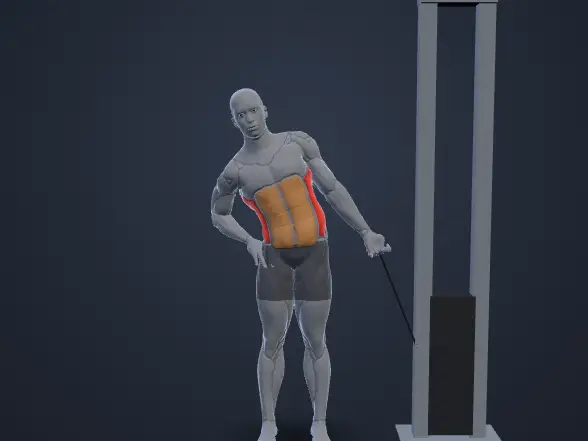
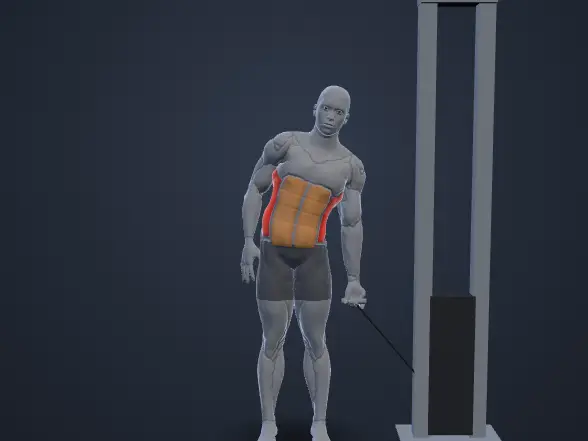
Map 7 more side bends to 3D (atelier lot 60); side bends now lean toward the load

Changed region(s): [[0.3367, 0.1769, 0.6735, 0.7075]]

diff --git a/frontend/public/mannequin/ecarts.js b/frontend/public/mannequin/ecarts.js
@@ -19,7 +19,6 @@ export const ECARTS = {
     "fente-croisee-halteres": {"normal":[null,{"bras.G":{"abd":3,"flex":0},"bras.D":{"abd":3,"flex":0}},{"bras.G":{"abd":3,"flex":0},"bras.D":{"abd":3,"flex":0}},null,null,null,null,null,null,null,null,null,{"bras.G":{"abd":3,"flex":0},"bras.D":{"abd":3,"flex":0}},null,{"bras.G":{"abd":3,"flex":0},"bras.D":{"abd":3,"flex":0}},{"bras.G":{"abd":3,"flex":0},"bras.D":{"abd":3,"flex":0}},null,null,null,null,null,null,null,null,null,{"bras.G":{"abd":3,"flex":0},"bras.D":{"abd":3,"flex":0}}],"erreur":[{"bras.G":{"abd":3,"flex":0},"bras.D":{"abd":3,"flex":0}},{"bras.G":{"abd":3,"flex":0},"bras.D":{"abd":3,"flex":0}},{"bras.G":{"abd":3,"flex":0},"bras.D":{"abd":3,"flex":0}},null,null,{"bras.G":{"abd":0,"flex":-5},"bras.D":{"abd":0,"flex":-5}},{"bras.G":{"abd":6,"flex":0},"bras.D":{"abd":6,"flex":0}},null,{"bras.G":{"abd":6,"flex":0},"bras.D":{"abd":6,"flex":0}},{"bras.G":{"abd":3,"flex":0},"bras.D":{"abd":3,"flex":0}},null,null,{"bras.G":{"abd":6,"flex":0},"bras.D":{"abd":6,"flex":0}},{"bras.G":{"abd":3,"flex":5},"bras.D":{"abd":3,"flex":5}}]},
     "fente-laterale-halteres": {"normal":[{"bras.G":{"abd":3,"flex":-5},"bras.D":{"abd":3,"flex":-5}},{"bras.G":{"abd":9,"flex":-5},"bras.D":{"abd":9,"flex":-5}},{"bras.G":{"abd":3,"flex":0},"bras.D":{"abd":3,"flex":0}},{"bras.G":{"abd":9,"flex":5},"bras.D":{"abd":9,"flex":5}},{"bras.G":{"abd":15,"flex":5},"bras.D":{"abd":15,"flex":5}},{"bras.G":{"abd":3,"flex":0},"bras.D":{"abd":3,"flex":0}}],"erreur":[{"bras.G":{"abd":9,"flex":-5},"bras.D":{"abd":9,"flex":-5}},{"bras.G":{"abd":9,"flex":-5},"bras.D":{"abd":9,"flex":-5}},{"bras.G":{"abd":0,"flex":-5},"bras.D":{"abd":0,"flex":-5}},{"bras.G":{"abd":3,"flex":-5},"bras.D":{"abd":3,"flex":-5}},{"bras.G":{"abd":15,"flex":0},"bras.D":{"abd":15,"flex":0}},{"bras.G":{"abd":3,"flex":0},"bras.D":{"abd":3,"flex":0}}]},
     "fentes-halteres": {"normal":[null,{"bras.G":{"abd":6,"flex":0},"bras.D":{"abd":6,"flex":0}},{"bras.G":{"abd":3,"flex":0},"bras.D":{"abd":3,"flex":0}},null,null,null,null,null,null,null,null,null,{"bras.G":{"abd":6,"flex":0},"bras.D":{"abd":6,"flex":0}},null,{"bras.G":{"abd":3,"flex":0},"bras.D":{"abd":3,"flex":0}},{"bras.G":{"abd":3,"flex":0},"bras.D":{"abd":3,"flex":0}},null,null,null,null,null,null,null,null,null,{"bras.G":{"abd":6,"flex":0},"bras.D":{"abd":6,"flex":0}}],"erreur":[{"bras.G":{"abd":3,"flex":0},"bras.D":{"abd":3,"flex":0}},{"bras.G":{"abd":3,"flex":0},"bras.D":{"abd":3,"flex":0}},{"bras.G":{"abd":3,"flex":0},"bras.D":{"abd":3,"flex":0}},null,{"bras.G":{"abd":3,"flex":0},"bras.D":{"abd":3,"flex":0}},{"bras.G":{"abd":3,"flex":-5},"bras.D":{"abd":3,"flex":-5}},{"bras.G":{"abd":6,"flex":0},"bras.D":{"abd":6,"flex":0}},null,{"bras.G":{"abd":6,"flex":0},"bras.D":{"abd":6,"flex":0}},{"bras.G":{"abd":3,"flex":0},"bras.D":{"abd":3,"flex":0}},null,null,{"bras.G":{"abd":6,"flex":0},"bras.D":{"abd":6,"flex":0}},{"bras.G":{"abd":3,"flex":5},"bras.D":{"abd":3,"flex":5}}]},
-    "flexion-laterale-haltere": {"normal":[null,null,null,{"bras.G":{"abd":3,"flex":0}},null],"erreur":[null,null,null,{"bras.G":{"abd":3,"flex":0}},null]},
     "goblet-squat": {"erreur":[{"bras.G":[0,-3,0],"bras.D":[0,-3,0]},{"bras.G":[0,-3,0],"bras.D":[0,-3,0]},{"bras.G":[0,-3,0],"bras.D":[0,-3,0]},null]},
     "kickback-halteres-debout": {"normal":[{"bras.G":{"abd":3,"flex":0},"bras.D":{"abd":3,"flex":0}},null,{"bras.G":{"abd":15,"flex":0},"bras.D":{"abd":15,"flex":0}},{"bras.G":{"abd":3,"flex":0},"bras.D":{"abd":3,"flex":0}}],"erreur":[{"bras.G":{"abd":3,"flex":0},"bras.D":{"abd":3,"flex":0}},null,null,{"bras.G":{"abd":3,"flex":0},"bras.D":{"abd":3,"flex":0}}]},
     "kickback-triceps": {"normal":[{"bras.G":{"abd":6,"flex":-5},"bras.D":{"abd":6,"flex":-5}},{"bras.G":{"abd":6,"flex":0},"bras.D":{"abd":6,"flex":0}},{"bras.G":{"abd":9,"flex":0},"bras.D":{"abd":9,"flex":0}},{"bras.G":{"abd":6,"flex":0},"bras.D":{"abd":6,"flex":0}}],"erreur":[{"bras.G":{"abd":9,"flex":-5},"bras.D":{"abd":9,"flex":-5}},{"bras.G":{"abd":3,"flex":0},"bras.D":{"abd":3,"flex":0}},{"bras.G":{"abd":12,"flex":10},"bras.D":{"abd":12,"flex":10}},null]},
@@ -58,7 +57,7 @@ export const ECARTS = {
     "fente-croisee-halteres": {"normal":[null,null,{"bras.G":{"abd":3,"flex":0},"bras.D":{"abd":3,"flex":0}},null,null,null,null,null,null,null,null,{"bras.G":{"abd":6,"flex":0},"bras.D":{"abd":6,"flex":0}},null,null,{"bras.G":{"abd":3,"flex":-5},"bras.D":{"abd":3,"flex":-5}},{"bras.G":{"abd":3,"flex":0},"bras.D":{"abd":3,"flex":0}},null,null,null,null,null,null,null,null,{"bras.G":{"abd":9,"flex":0},"bras.D":{"abd":9,"flex":0}},null],"erreur":[null,{"bras.G":{"abd":3,"flex":5},"bras.D":{"abd":3,"flex":5}},{"bras.G":{"abd":3,"flex":0},"bras.D":{"abd":3,"flex":0}},null,null,{"bras.G":{"abd":6,"flex":0},"bras.D":{"abd":6,"flex":0}},{"bras.G":{"abd":3,"flex":0},"bras.D":{"abd":3,"flex":0}},null,{"bras.G":{"abd":3,"flex":-5},"bras.D":{"abd":3,"flex":-5}},null,null,null,{"bras.G":{"abd":6,"flex":0},"bras.D":{"abd":6,"flex":0}},null]},
     "fente-laterale-halteres": {"normal":[null,{"bras.G":{"abd":9,"flex":-5},"bras.D":{"abd":9,"flex":-5}},{"bras.G":{"abd":3,"flex":0},"bras.D":{"abd":3,"flex":0}},{"bras.G":{"abd":0,"flex":-10},"bras.D":{"abd":0,"flex":-10}},{"bras.G":{"abd":9,"flex":0},"bras.D":{"abd":9,"flex":0}},null],"erreur":[{"bras.G":{"abd":3,"flex":-10},"bras.D":{"abd":3,"flex":-10}},{"bras.G":{"abd":6,"flex":-10},"bras.D":{"abd":6,"flex":-10}},{"bras.G":{"abd":3,"flex":-10},"bras.D":{"abd":3,"flex":-10}},{"bras.G":{"abd":12,"flex":0},"bras.D":{"abd":12,"flex":0}},{"bras.G":{"abd":9,"flex":-5},"bras.D":{"abd":9,"flex":-5}},{"bras.G":{"abd":3,"flex":0},"bras.D":{"abd":3,"flex":0}}]},
     "fentes-halteres": {"normal":[null,{"bras.G":{"abd":3,"flex":0},"bras.D":{"abd":3,"flex":0}},{"bras.G":{"abd":3,"flex":-5},"bras.D":{"abd":3,"flex":-5}},null,null,null,null,null,null,null,null,{"bras.G":{"abd":6,"flex":0},"bras.D":{"abd":6,"flex":0}},null,null,{"bras.G":{"abd":3,"flex":5},"bras.D":{"abd":3,"flex":5}},{"bras.G":{"abd":6,"flex":0},"bras.D":{"abd":6,"flex":0}},{"bras.G":{"abd":3,"flex":0},"bras.D":{"abd":3,"flex":0}},null,null,null,null,null,null,null,{"bras.G":{"abd":9,"flex":0},"bras.D":{"abd":9,"flex":0}},null],"erreur":[null,{"bras.G":{"abd":3,"flex":5},"bras.D":{"abd":3,"flex":5}},{"bras.G":{"abd":3,"flex":0},"bras.D":{"abd":3,"flex":0}},null,null,{"bras.G":{"abd":6,"flex":0},"bras.D":{"abd":6,"flex":0}},{"bras.G":{"abd":3,"flex":0},"bras.D":{"abd":3,"flex":0}},null,{"bras.G":{"abd":3,"flex":-5},"bras.D":{"abd":3,"flex":-5}},null,null,null,{"bras.G":{"abd":6,"flex":0},"bras.D":{"abd":6,"flex":0}},null]},
-    "flexion-laterale-haltere": {"normal":[null,null,null,{"bras.G":{"abd":3,"flex":0}},null],"erreur":[null,null,null,{"bras.G":{"abd":3,"flex":0}},null]},
+    "flexion-laterale-haltere": {"erreur":[{"bras.G":{"abd":0,"flex":10}},null,null,null,null]},
     "front-squat": {"normal":[{"bras.G":{"abd":0,"flex":-10},"bras.D":{"abd":0,"flex":-10}},{"bras.G":{"abd":0,"flex":-5},"bras.D":{"abd":0,"flex":-5}},null,null,null,null,null,null,null,null,null,null,null,null,null,{"bras.G":{"abd":0,"flex":-5},"bras.D":{"abd":0,"flex":-5}}]},
     "good-morning": {"normal":[null,null,null,null,{"bras.G":{"abd":0,"flex":-5},"bras.D":{"abd":0,"flex":-5}},null,null,null,{"bras.G":{"abd":0,"flex":5},"bras.D":{"abd":0,"flex":5}},null,null,null,null,null],"erreur":[null,null,{"bras.G":{"abd":0,"flex":-5},"bras.D":{"abd":0,"flex":-5}},{"bras.G":{"abd":0,"flex":-5},"bras.D":{"abd":0,"flex":-5}}]},
     "hip-thrust": {"normal":[{"bras.G":[0,3,-3],"bras.D":[0,3,-3]},{"bras.G":[0,0,3],"bras.D":[0,0,3]},{"bras.G":[0,-3,3],"bras.D":[0,-3,3]},{"bras.G":[0,0,3],"bras.D":[0,0,3]}],"erreur":[{"bras.G":[3,3,-3],"bras.D":[-3,3,-3]},{"bras.G":[0,3,0],"bras.D":[0,3,0]},{"bras.G":[0,3,0],"bras.D":[0,3,0]},{"bras.G":[0,3,-3],"bras.D":[0,3,-3]}]},

diff --git a/frontend/public/mannequin/exercices.js b/frontend/public/mannequin/exercices.js
@@ -3000,8 +3000,8 @@ const BRAS_BAS = bras2({ fk: { flex: 4, abd: 8 }, coude: 8 });
 
 /* ---------- LOT 59 pour l'appli : flexion latérale debout (haltère, kettlebell, poulie, mains derrière la tête) ---------- */
 { // La colonne s'incline sur le côté (vers la main gauche chargée) ; le bassin reste droit, la main gauche glisse le long de la cuisse
-  const LAT = (a, cou = 0) => ({ lomb: { flex: 0, lat: -a * 0.55 }, thorax: { flex: 0, lat: -a * 0.45 }, cou: { flex: cou, lat: a * 0.2 } });   // lat négatif : vers la gauche
-  const G = bras2({ fk: { flex: 4, abd: 14 }, coude: 6, prono: -85, ...PRISE }).G;   // la charge reste à côté de la cuisse
+  const LAT = (a, cou = 0) => ({ lomb: { flex: 0, lat: a * 0.55 }, thorax: { flex: 0, lat: a * 0.45 }, cou: { flex: cou, lat: -a * 0.2 } });   // lat positif : vers la gauche (côté chargé)
+  const G = bras2({ fk: { flex: 4, abd: 22 }, coude: 6, prono: -85, ...PRISE }).G;   // la charge reste à côté de la cuisse
   const NUQUE = bras2({ fk: { flex: -55, abd: 85, rot: 85 }, coude: 160, doigts: 30 }), HANCHES = bras2({ ik: [22, 100, 0], pole: [1, -0.3, -1] });
   const ex = (id, nom, acc, brasG, brasD, extra = {}) => { const P = (t, a) => ({ t, racine: { p: [0, 99, 0], r: [0, 0, 0] }, colonne: LAT(a), jambes: DEBOUT,
       bras: { G: copie(brasG), D: copie(brasD) } });
@@ -3009,13 +3009,20 @@ const BRAS_BAS = bras2({ fk: { flex: 4, abd: 8 }, coude: 8 });
       camera: { cible: [0, 110, 0], dist: 440, el: 6 }, ombre: [0, 0, 80, 70], accessoires: acc,
       muscles: { p: ["obliques"], s: ["lombaires", "abdominaux"] },
       tempo: [[0, "Descendre sur le côté · 2 s, sans pencher en avant"], [0.4, "Étirement du côté opposé"], [0.5, "Remonter et dépasser un peu le centre · 1 s"]],
-      cles: [P(0, 0), P(0.4, 24), P(0.5, 24), P(0.75, -8), P(0.95, 0)],
+      cles: [P(0, 0), P(0.4, 20), P(0.5, 20), P(0.75, -8), P(0.95, 0)],
       erreur: { texte: "le buste part en avant ou en arrière au lieu de rester de profil : les obliques ne travaillent plus seuls.", zone: ["lombaires"],
-        cles: [P(0, 0), { ...P(0.4, 24), colonne: { ...LAT(24), lomb: { flex: 22, lat: -13 } } }, { ...P(0.5, 24), colonne: { ...LAT(24), lomb: { flex: 22, lat: -13 } } }, P(0.75, -8), P(0.95, 0)] }, ...extra }); };
+        cles: [P(0, 0), { ...P(0.4, 20), colonne: { ...LAT(20), lomb: { flex: 14, lat: 11 } } }, { ...P(0.5, 20), colonne: { ...LAT(20), lomb: { flex: 14, lat: 11 } } }, P(0.75, -8), P(0.95, 0)] }, ...extra }); };
   ex("flexion-laterale-haltere", "Flexion latérale à l'haltère", [{ type: "haltere", main: "G" }], G, HANCHES.D);
+  EXERCICES["flexion-laterale-haltere"].erreur.cles.forEach(k => { k.bras.G.fk.abd += 8; });   // buste en avant : l'haltère s'écarte plus de la cuisse
   ex("flexion-laterale-kettlebell", "Flexion latérale au kettlebell", [copie(EXERCICES["rowing-kettlebell"].accessoires[1])], G, HANCHES.D);
   ex("flexion-laterale-poulie", "Flexion latérale à la poulie basse", [machine(PILE(78, 0)), { type: "cable", de: [72, 20, 0], main: "G", poignee: 12 }], G, HANCHES.D);
   ex("flexion-laterale-mains-nuque", "Flexion latérale debout, mains derrière la tête", [], NUQUE.G, NUQUE.D);
+  // Lot 60 : sans charge, bras droit tendu au-dessus de la tête (on s'incline du côté opposé), deux bras joints, ou bras le long du corps
+  const HAUT = bras2({ fk: { flex: 170, abd: 14 }, coude: 8, doigts: 10 }), JOINTS = bras2({ fk: { flex: 172, abd: 3 }, coude: 12, doigts: 10 });
+  const LIBRES = bras2({ fk: { flex: 4, abd: 9 }, coude: 8 });
+  ex("flexion-laterale-bras-leve", "Flexion latérale debout, un bras au-dessus de la tête", [], HANCHES.G, HAUT.D);
+  ex("flexion-laterale-bras-joints", "Flexion latérale debout, mains jointes au-dessus de la tête", [], JOINTS.G, JOINTS.D);
+  ex("flexion-laterale-bras-le-long", "Flexion latérale debout, bras le long du corps", [], LIBRES.G, LIBRES.D);
 }
 
 /* Orientation des mains : direction où la paume doit regarder (main gauche ; la droite est symétrique), tenue à chaque image

diff --git a/frontend/src/lib/mannequin3d.js b/frontend/src/lib/mannequin3d.js
@@ -105,7 +105,8 @@ const BY_ANIM = {
   'extension-nuque-poulie': ['0194', '1722', '1724', '3040', '11436'], 'extension-nuque-poulie-un-bras': ['11279', '1727'],
   'curl-poulie-haute': ['1636'], 'curl-poulie-haute-assis': ['1643'],
   'flexion-laterale-haltere': ['0407', '4335', '6054'], 'flexion-laterale-kettlebell': ['4396'], 'flexion-laterale-poulie': ['0222', '5657', '11278'],
-  'flexion-laterale-mains-nuque': ['3256'],
+  'flexion-laterale-mains-nuque': ['3256', '4322'],
+  'flexion-laterale-bras-leve': ['3253', '4810', '2117', '2119', '3997'], 'flexion-laterale-bras-joints': ['3254'],
 }
 // The same exercise again in the catalogue (its female version, or a "v. 2" of the same name): same animation.
 const SAME_AS = {
@@ -142,17 +143,17 @@ const SAME_AS = {
   '2965': '2964', '2973': '2972', '3029': '0082', '3033': '0126', '3038': '0148', '3041': '1630', '3045': '0157',
   '3046': '1261', '3047': '1722', '3049': '0169', '3050': '0171', '3054': '0178', '3065': '1643', '3066': '0219',
   '3069': '0239', '3070': '1728', '3071': '0276', '3074': '2401', '3083': '0391', '3101': '0587', '3115': '0814',
-  '3262': '1163', '3340': '0432', '3341': '0336', '3421': '0394', '3427': '3335', '3428': '0310', '3429': '2292',
-  '3431': '0437', '3447': '3448', '3549': '7384', '3592': '0031', '3594': '0116', '3595': '0123', '3597': '1205',
-  '3598': '0218', '3599': '0251', '3604': '0474', '3611': '0597', '3612': '0598', '3613': '1037', '3615': '0673',
-  '3618': '0752', '3620': '0765', '3753': '0595', '3754': '1047', '3760': '1452', '3764': '0315', '3800': '1243',
-  '3817': '3556', '3894': '0432', '3895': '0674', '3897': '0498', '3902': '3322', '3973': '0409', '4019': '0872',
-  '4037': '1311', '4267': '1482', '4284': '0457', '4301': '0669', '4508': '1494', '4525': '3574', '4643': '0459',
-  '4645': '0630', '4743': '0315', '4774': '7385', '4778': '0872', '4808': '1163', '4811': '0715', '4975': '1163',
-  '5119': '0300', '5177': '3769', '5213': '0630', '5251': '3469', '5252': '4580', '5330': '0375', '5722': '1063',
-  '5734': '0459', '5964': '0180', '6036': '0238', '6484': '0375', '6556': '4397', '7002': '0748', '7003': '0757',
-  '7069': '0122', '7071': '0579', '7113': '0433', '7157': '1246', '7253': '1053', '7839': '1243', '7892': '2188',
-  '8372': '1059', '9609': '3322', '9739': '0201',
+  '3255': '3997', '3262': '1163', '3340': '0432', '3341': '0336', '3421': '0394', '3427': '3335', '3428': '0310',
+  '3429': '2292', '3431': '0437', '3447': '3448', '3549': '7384', '3592': '0031', '3594': '0116', '3595': '0123',
+  '3597': '1205', '3598': '0218', '3599': '0251', '3604': '0474', '3611': '0597', '3612': '0598', '3613': '1037',
+  '3615': '0673', '3618': '0752', '3620': '0765', '3753': '0595', '3754': '1047', '3760': '1452', '3764': '0315',
+  '3800': '1243', '3817': '3556', '3894': '0432', '3895': '0674', '3897': '0498', '3902': '3322', '3973': '0409',
+  '4019': '0872', '4037': '1311', '4267': '1482', '4284': '0457', '4301': '0669', '4508': '1494', '4525': '3574',
+  '4643': '0459', '4645': '0630', '4743': '0315', '4774': '7385', '4778': '0872', '4808': '1163', '4811': '0715',
+  '4975': '1163', '5119': '0300', '5177': '3769', '5213': '0630', '5251': '3469', '5252': '4580', '5330': '0375',
+  '5722': '1063', '5734': '0459', '5964': '0180', '6036': '0238', '6484': '0375', '6556': '4397', '7002': '0748',
+  '7003': '0757', '7069': '0122', '7071': '0579', '7113': '0433', '7157': '1246', '7253': '1053', '7839': '1243',
+  '7892': '2188', '8372': '1059', '9609': '3322', '9739': '0201',
 }
 export const ANIM_3D = Object.fromEntries(Object.entries(BY_ANIM).flatMap(([anim, ids]) => ids.map(id => [id, anim])))
 for (const [id, ref] of Object.entries(SAME_AS)) ANIM_3D[id] = ANIM_3D[ref]
